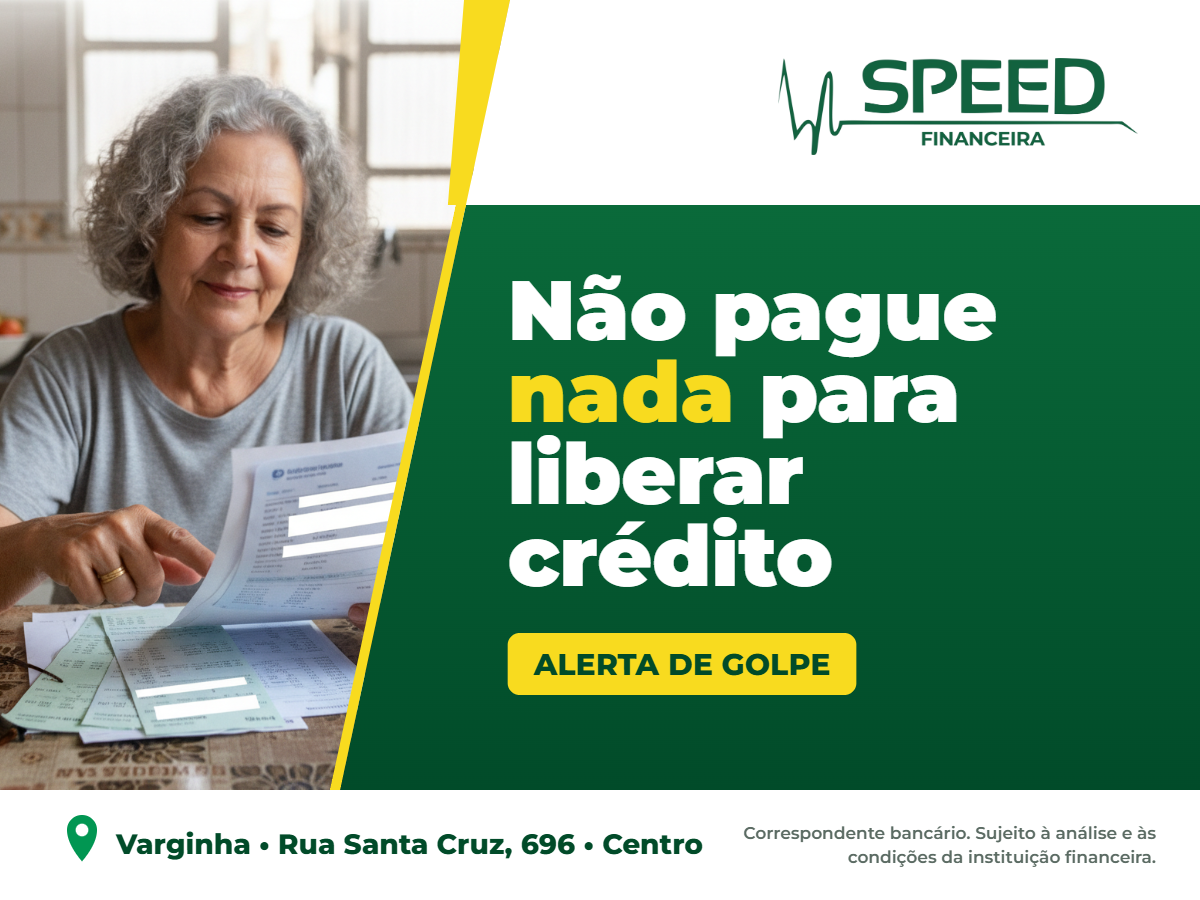
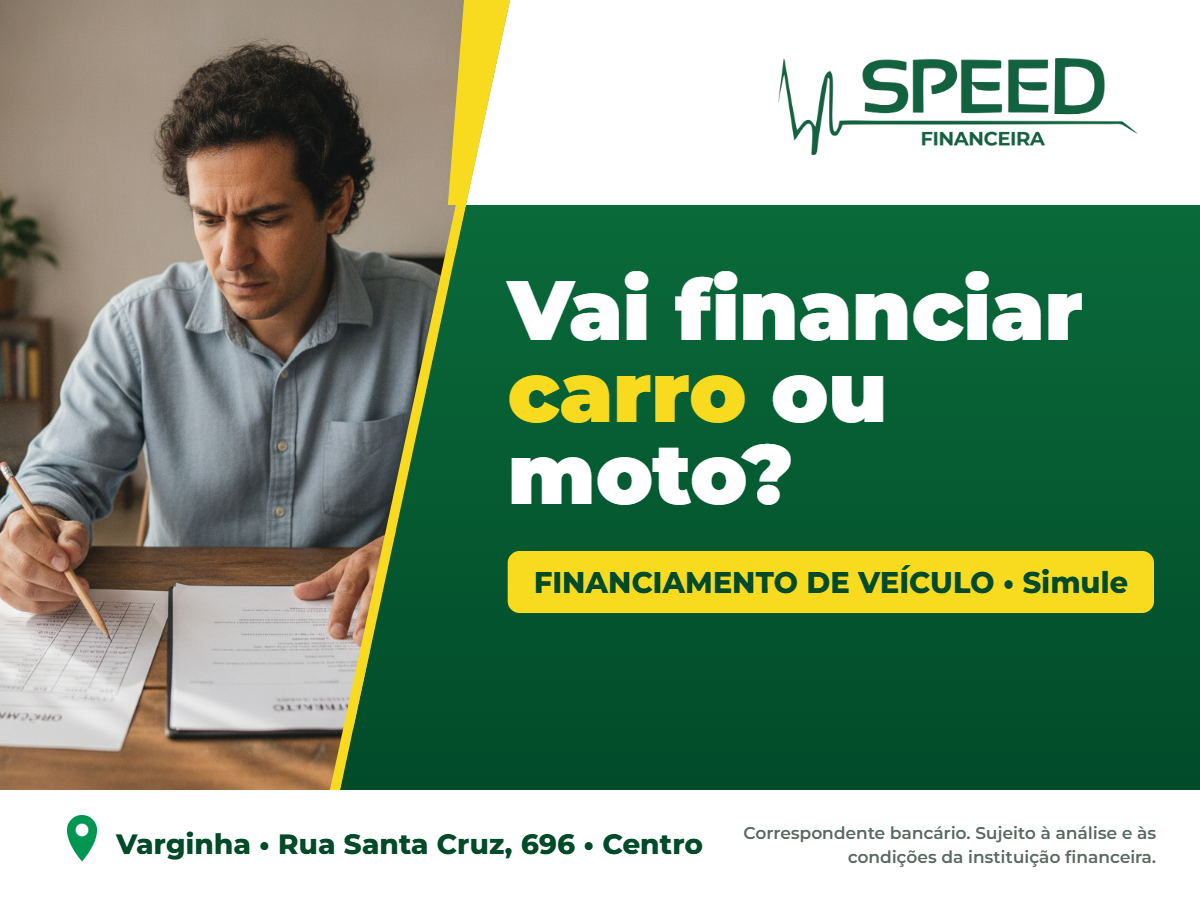
Marketing: posts da ficha pelas buscas reais e publicação pelo servidor
Calendário da ficha no Google com 3 posts por semana até 29/01/2027.
Os termos seguem as buscas reais da ficha (Desempenho, ago-out/2026):
"empréstimo consignado" (146 buscas) não estava em nenhum post.
- 02, 07, 14 e 16/12 trocados para empréstimo consignado, empréstimo CLT
  e empréstimo pessoal (textos e duas artes novas; os posts programados
  na ficha foram atualizados pela API).
- 14 posts novos (22/12, 29/12 e janeiro), marcados publicarPeloServidor.
- 06/11 já tinha sido trocado em 30/10 de alerta de golpe para
  financiamento de veículo; a arte e o texto entram neste commit.

A API do Google não programa post novo. O servidor publica no dia, a
partir das 9h (gmbPostsDue, createPost, postsDoDia), com a arte em
speedfinanceira.com.br/midia/posts/google-AAAA-MM-DD.png; dia que passou
fica de fora. A esteira do painel mostra publicado, erro ou não saiu.

diff --git a/server/public/marketing/js/data_gmb_posts.js b/server/public/marketing/js/data_gmb_posts.js
@@ -11,7 +11,7 @@
 window.SPEED_GMB_POSTS_ARTES = {
   '2026-11-03': ['Aposentado, *compare* antes de assinar', 'CONSIGNADO INSS • Vários bancos', 'casal'],
   '2026-11-04': ['Seu *FGTS* pode virar dinheiro agora', 'SAQUE-ANIVERSÁRIO • Simule', 'cozinha'],
-  '2026-11-06': ['Não pague *nada* para liberar crédito', 'ALERTA DE GOLPE', 'senhora'],
+  '2026-11-06': ['Vai financiar *carro* ou moto?', 'FINANCIAMENTO DE VEÍCULO • Simule', 'homem'],
   '2026-11-09': ['Carteira assinada tem *consignado*', 'CLT • Desconto em folha', 'homem'],
   '2026-11-11': ['Sua parcela pode *diminuir*', 'PORTABILIDADE • Traga o extrato', 'senhora'],
   '2026-11-13': ['O que trazer para *simular*', 'RG, CPF, comprovante e extrato', 'balcao'],
@@ -22,9 +22,9 @@ window.SPEED_GMB_POSTS_ARTES = {
   '2026-11-25': ['Olhe o *CET*, não só a parcela', 'CUSTO EFETIVO TOTAL', 'homem'],
   '2026-11-27': ['Black Friday sem cair no *rotativo*', 'Troque dívida cara por parcela fixa', 'cozinha'],
   '2026-11-30': ['Sua *margem* ainda está livre?', 'Extrato do Meu INSS na hora', 'senhora'],
-  '2026-12-02': ['FGTS parado? *Antecipe*', 'Simule sem compromisso', 'cozinha'],
+  '2026-12-02': ['Empréstimo *consignado* em Varginha', 'INSS • CLT • SERVIDOR', 'casal'],
   '2026-12-04': ['Obrigado pelas mais de *200* avaliações', 'Conte como foi no Google', 'balcao'],
-  '2026-12-07': ['Carro ou imóvel pelo *consórcio*', 'SEM JUROS • Taxa de administração', 'casal'],
+  '2026-12-07': ['Pouco tempo de *carteira*?', 'CONSIGNADO CLT • Compare os bancos', 'balcao'],
   '2026-12-09': ['Dívida cara? *Parcela* em folha', 'CONSIGNADO CLT', 'homem'],
   '2026-12-11': ['Nome *negativado*? Veja suas opções', 'CONSIGNADO E FGTS • Sujeito a análise', 'cozinha'],
   '2026-12-14': ['Seu consignado pode ficar mais *leve*', 'PORTABILIDADE', 'senhora'],
@@ -33,7 +33,22 @@ window.SPEED_GMB_POSTS_ARTES = {
   '2026-12-21': ['Consignado ou crédito *pessoal*?', 'Mostramos o que faz sentido', 'homem'],
   '2026-12-23': ['Obrigado pela *confiança* em 2026', 'Boas festas, Varginha!', 'casal'],
   '2026-12-28': ['Comece 2027 com as *dívidas* em ordem', 'Simulação sem custo', 'senhora'],
-  '2026-12-30': ['Crédito para começar *2027* com calma', 'CONSIGNADO INSS', 'casal']
+  '2026-12-30': ['Crédito para começar *2027* com calma', 'CONSIGNADO INSS', 'casal'],
+  // Posts que o servidor publica (05/11/2026). Entram no fim da lista para não mudar a variação das artes já feitas.
+  '2026-12-22': ['No Natal, confira o *extrato* dos seus pais', 'APOSENTADOS • Meu INSS', 'casal'],
+  '2026-12-29': ['Comece 2027 sem *rotativo*', 'CONSIGNADO CLT • Desconto em folha', 'homem'],
+  '2027-01-04': ['Ano novo, dívida *mais barata*', 'CONSIGNADO CLT', 'balcao'],
+  '2027-01-06': ['Benefício reajustado, *margem* nova?', 'CONSIGNADO INSS • Consulte', 'senhora'],
+  '2027-01-08': ['IPVA, IPTU e *material escolar*', 'Compare antes de contratar', 'cozinha'],
+  '2027-01-11': ['Pediram *Pix* para liberar crédito?', 'É GOLPE • Não pague', 'senhora'],
+  '2027-01-13': ['Quanto posso pegar no *consignado CLT*?', 'Depende da sua margem', 'homem'],
+  '2027-01-15': ['Vai *financiar* em 2027?', 'Compare o CET', 'balcao'],
+  '2027-01-18': ['Já pagou parte do *consignado*?', 'REFINANCIAMENTO • A gente faz a conta', 'casal'],
+  '2027-01-20': ['Foi atendido na Speed? *Avalie*', 'Sua opinião ajuda Varginha', 'balcao'],
+  '2027-01-22': ['O que trazer para o *consignado CLT*', 'Documento, CPF e holerite', 'homem'],
+  '2027-01-25': ['Aposentado: 3 *cuidados* antes de assinar', 'CONSIGNADO INSS', 'casal'],
+  '2027-01-27': ['Quem pode fazer *crédito consignado*', 'INSS • CLT • SERVIDOR', 'senhora'],
+  '2027-01-29': ['Simulação de *consignado* sem custo', 'Compare vários bancos', 'balcao']
 };
 
 window.SPEED_GMB_POSTS_PLANO = (function () {
@@ -52,6 +67,9 @@ window.SPEED_GMB_POSTS_PLANO = (function () {
     const layout = Math.floor(i / 2) % 2 ? 'b' : 'a';
     return a ? { titulo: a[0], selo: a[1], foto: a[2], variacao, layout, arquivo: `gmb-artes/post-${data}${variacao === 2 ? '-v2' : ''}.png` } : null;
   };
+  // Post que o servidor do Nexcafe publica sozinho no dia, às 9h (server/app.js, gmbPostsDue): a API do Google
+  // não programa post novo. A arte vai antes para speedfinanceira.com.br/midia/posts/google-AAAA-MM-DD.png.
+  const s = (...args) => ({ ...p(...args), programadoEm: '2026-11-05', publicarPeloServidor: true, fotoUrl: `https://speedfinanceira.com.br/midia/posts/google-${args[0]}.png` });
   const p = (data, tema, termo, texto, foto, rodape = true) =>
     ({ id: `post-${data}`, data, tema, termo, texto: rodape ? `${texto}\n\n${RODAPE}` : texto, foto, botao: 'Saiba mais', link: whatsapp(data), arte: arte(data), programadoEm: PROGRAMADO_EM });
 
@@ -63,9 +81,10 @@ window.SPEED_GMB_POSTS_PLANO = (function () {
     p('2026-11-04', 'Antecipação FGTS', 'empréstimo do fgts varginha',
       'Empréstimo do FGTS em Varginha: quem aderiu ao saque-aniversário pode antecipar parcelas e receber o valor de uma vez, sem parcela no salário. O desconto sai do próprio saldo do FGTS.\n\nO valor liberado depende do saldo e das regras em vigor. Na Speed Financeira, no Centro, a gente simula com você, mostra quanto entra na conta e explica a autorização que precisa ser feita no aplicativo do FGTS.',
       'Atendente mostrando a simulação na tela, sem dados do cliente.'),
-    p('2026-11-06', 'Segurança', 'empréstimo para negativado',
-      'Empréstimo para negativado "liberado na hora" que pede depósito antes é golpe. Em Varginha e região, desconfie de quem cobra taxa, Pix ou "seguro" para liberar o dinheiro: correspondente bancário sério não cobra nada antecipado.\n\nNa Speed Financeira o atendimento é presencial, na Rua Santa Cruz, 696, no Centro de Varginha, e o contrato é sempre do banco, em seu nome. Na dúvida, venha conferir pessoalmente antes de pagar qualquer coisa.',
-      'Fachada da loja com o número 696 visível.', false),
+    // 06/11 era alerta de golpe; trocado em 30/10 porque um alerta igual foi publicado na ficha nesse dia.
+    p('2026-11-06', 'Financiamento de veículo', 'financiamento de veículo varginha',
+      'Financiamento de veículo em Varginha: antes de fechar a compra do carro ou da moto, compare o custo efetivo total (CET) das propostas, e não só o valor da parcela. Uma entrada maior e um prazo menor costumam deixar o total pago bem mais baixo.\n\nNa Speed Financeira, no Centro, a gente simula com você e mostra a parcela, o CET e o total a pagar antes de qualquer decisão.',
+      'Fachada da loja; evite foto de carro de cliente.'),
 
     // Semana 2
     p('2026-11-09', 'Consignado CLT', 'empréstimo clt varginha',
@@ -104,17 +123,19 @@ window.SPEED_GMB_POSTS_PLANO = (function () {
     p('2026-11-30', 'Consignado INSS', 'empréstimo inss varginha',
       'Empréstimo INSS em Varginha: sabe quanto do seu benefício já está comprometido? O extrato de empréstimos do Meu INSS mostra os contratos ativos e a margem que ainda está livre.\n\nNa Speed Financeira, no Centro, a gente tira esse extrato com você, explica cada contrato e mostra se vale a pena um novo crédito, um refinanciamento ou a portabilidade.',
       'Tela do Meu INSS na loja, sem dados pessoais.'),
-    p('2026-12-02', 'Antecipação FGTS', 'saque-aniversário do fgts varginha',
-      'Saque-aniversário do FGTS em Varginha: se o seu FGTS está parado, dá para antecipar parcelas e usar o dinheiro agora, sem parcela no salário.\n\nA Speed Financeira, no Centro, consulta com você quanto pode ser antecipado e explica o passo a passo da autorização no aplicativo do FGTS.',
-      'Equipe no balcão.'),
+    // 02, 07, 14 e 16/12 trocados em 05/11/2026 pelas buscas reais da ficha (ago-out/2026): "empréstimo consignado"
+    // (146 buscas) não estava em nenhum post; FGTS, consórcio e "financeira" quase não aparecem nas buscas.
+    p('2026-12-02', 'Consignado', 'empréstimo consignado varginha',
+      'Empréstimo consignado em Varginha: a parcela é descontada direto do benefício do INSS ou do salário, por isso os juros costumam ser menores que os do crédito pessoal e do cartão. Podem fazer aposentados e pensionistas do INSS, servidores públicos e quem tem carteira assinada.\n\nNa Speed Financeira, no Centro, a gente consulta sua margem, compara as propostas de vários bancos e mostra a parcela e o custo total antes de você decidir.',
+      'Mesa de atendimento com a fachada ao fundo.'),
     p('2026-12-04', 'Avaliações', 'financeira em varginha',
       'Financeira em Varginha com mais de 200 avaliações no Google e nota 4,8: obrigado a cada cliente que contou como foi o atendimento na Speed Financeira.\n\nJá foi atendido por aqui? Sua avaliação ajuda outras pessoas da cidade a escolher com segurança onde fazer o empréstimo. Conte qual serviço você fez e como foi.',
       'Equipe reunida na frente da loja (com autorização).', false),
 
     // Semana 6
-    p('2026-12-07', 'Consórcio', 'consórcio varginha',
-      'Consórcio em Varginha: para comprar carro, moto ou imóvel sem pagar juros, o consórcio troca os juros por uma taxa de administração, e a carta de crédito sai por sorteio ou lance.\n\nNa Speed Financeira, no Centro, a gente explica como funciona, compara os planos disponíveis e mostra o valor da parcela e o custo total antes de você decidir.',
-      'Fachada da loja.'),
+    p('2026-12-07', 'Consignado CLT', 'empréstimo clt varginha',
+      'Empréstimo CLT em Varginha com pouco tempo de carteira assinada? Cada banco define quanto tempo de empresa exige para o consignado do trabalhador, e um pode aceitar quando outro recusa.\n\nPor isso vale comparar. Na Speed Financeira, no Centro, a gente consulta as ofertas dos bancos para você, mostra a parcela e o custo total e só segue se fizer sentido para o seu orçamento.',
+      'Equipe no balcão.'),
     p('2026-12-09', 'Consignado CLT', 'consignado clt varginha',
       'Consignado CLT em Varginha: quem tem carteira assinada pode trocar dívidas caras, como cartão e cheque especial, por um empréstimo com desconto em folha e juros menores. O valor e o prazo dependem do salário e das ofertas disponíveis.\n\nNa Speed Financeira, no Centro, a gente faz a conta com você antes de qualquer contratação.',
       'Atendente ao telefone no balcão.'),
@@ -123,11 +144,11 @@ window.SPEED_GMB_POSTS_PLANO = (function () {
       'Mesa de atendimento.'),
 
     // Semana 7
-    p('2026-12-14', 'Portabilidade', 'crédito consignado varginha',
-      'Crédito consignado mais leve em Varginha: se o seu empréstimo foi feito há algum tempo, os juros e as condições dos bancos mudaram, e outro banco pode oferecer uma parcela menor para o mesmo contrato.\n\nA Speed Financeira, no Centro, compara as opções de portabilidade e só recomenda a troca quando ela é melhor para você.',
+    p('2026-12-14', 'Portabilidade', 'empréstimo consignado varginha',
+      'Empréstimo consignado em Varginha com parcela mais leve: se o seu consignado foi feito há algum tempo, outro banco pode oferecer juros menores para o mesmo contrato. É a portabilidade, e em alguns casos a parcela diminui ou sobra um valor para você.\n\nA Speed Financeira, no Centro, compara as opções e só recomenda a troca quando ela é melhor para você.',
       'Mesa de atendimento.'),
-    p('2026-12-16', 'Educação financeira', 'financeira varginha',
-      'A segunda parcela do 13º deve ser paga até 20 de dezembro, e a Speed Financeira, em Varginha, recomenda separar uma parte para as contas de janeiro: IPVA, IPTU, matrícula e material escolar.\n\nPlanejar agora evita entrar no cheque especial no começo do ano. Precisa organizar as dívidas? Venha ao Centro e a gente ajuda você a fazer as contas.',
+    p('2026-12-16', 'Educação financeira', 'empréstimo pessoal varginha',
+      'Empréstimo pessoal em Varginha no começo do ano? Antes, use a segunda parcela do 13º, que deve ser paga até 20 de dezembro: separe uma parte para as contas de janeiro, como IPVA, IPTU, matrícula e material escolar.\n\nSe mesmo assim faltar, compare antes de contratar: o consignado costuma ter juros menores que o pessoal. Na Speed Financeira, no Centro, a gente faz as contas com você.',
       'Fachada da loja.'),
     p('2026-12-18', 'Segurança', 'empréstimo varginha',
       'Fim de ano é época de golpe do falso empréstimo em Varginha e em todo o país: nunca faça depósito ou Pix para liberar crédito e não passe senha nem código recebido por SMS.\n\nA Speed Financeira não cobra nenhum valor antecipado e atende presencialmente na Rua Santa Cruz, 696, no Centro. Antes das festas, confira nesta ficha o horário de Natal e Ano Novo.',
@@ -137,6 +158,9 @@ window.SPEED_GMB_POSTS_PLANO = (function () {
     p('2026-12-21', 'Crédito pessoal', 'empréstimo pessoal varginha',
       'Empréstimo pessoal ou consignado em Varginha? Para aposentados, pensionistas, servidores e quem tem carteira assinada, o consignado costuma ter juros bem menores, porque a parcela é descontada direto no benefício ou no salário.\n\nO empréstimo pessoal é uma opção para quem não tem acesso ao consignado. Na Speed Financeira, no Centro, a gente mostra qual faz mais sentido para você.',
       'Atendente no balcão.'),
+    s('2026-12-22', 'Consignado INSS', 'empréstimo consignado varginha',
+      'Empréstimo consignado em Varginha: vai encontrar seus pais aposentados no Natal? Aproveite para conferir com eles o extrato de empréstimos no Meu INSS. Ele mostra os contratos ativos e quanto do benefício já está comprometido, e ajuda a perceber um desconto que ninguém pediu.\n\nFicou alguma dúvida? Traga o extrato à Speed Financeira, no Centro, e a gente explica cada contrato com calma.',
+      'Casal de aposentados em casa.'),
     p('2026-12-23', 'Avaliações', 'financeira varginha',
       'A Speed Financeira agradece a confiança de cada cliente de Varginha e região em 2026. Desejamos um Natal com saúde e um ano novo com as contas em dia.\n\nConfira nesta ficha o horário de atendimento de Natal e Ano Novo.',
       'Equipe reunida na loja (com autorização).', false),
@@ -145,8 +169,50 @@ window.SPEED_GMB_POSTS_PLANO = (function () {
     p('2026-12-28', 'Educação financeira', 'empréstimo varginha',
       'Empréstimo para organizar as dívidas em Varginha: quer começar 2027 com as contas em ordem? Liste tudo o que deve, com a parcela e os juros de cada uma, e comece pela mais cara. Trocar várias dívidas caras por um só crédito, com juros menores, pode aliviar o orçamento.\n\nTraga sua lista à Speed Financeira, no Centro. A simulação não tem custo nem compromisso.',
       'Mesa de atendimento com caneta e papel.'),
+    s('2026-12-29', 'Consignado CLT', 'empréstimo clt varginha',
+      'Empréstimo CLT em Varginha para começar 2027 sem rotativo: quem tem carteira assinada pode trocar a dívida do cartão e do cheque especial por um consignado com parcela descontada em folha, que costuma ter juros bem menores.\n\nNa Speed Financeira, no Centro, a gente compara as ofertas dos bancos, mostra a parcela e o custo total e só segue se a troca valer a pena para você.',
+      'Atendente no balcão.'),
     p('2026-12-30', 'Consignado INSS', 'empréstimo para aposentado varginha',
       'Empréstimo para aposentado em Varginha: em janeiro a Speed Financeira segue atendendo no Centro para consignado, refinanciamento e portabilidade de aposentados e pensionistas do INSS.\n\nSe você planeja um crédito para o começo do ano, venha simular com calma e compare o custo total antes de decidir. Confira nesta ficha o horário de atendimento do Ano Novo.',
-      'Fachada da loja.')
+      'Fachada da loja.'),
+
+    // Janeiro de 2027: publicados pelo servidor. Termos pelas buscas reais da ficha (ago-out/2026):
+    // empréstimo consignado e empréstimo CLT primeiro; 01/01 é feriado.
+    s('2027-01-04', 'Consignado CLT', 'empréstimo clt varginha',
+      'Empréstimo CLT em Varginha: ano novo pode ser a hora de trocar a dívida mais cara por uma mais barata. Com carteira assinada, o consignado do trabalhador tem a parcela descontada em folha e costuma ter juros menores que o cartão e o crédito pessoal.\n\nNa Speed Financeira, no Centro, a gente consulta as ofertas dos bancos para você e mostra o custo total antes de qualquer contratação.',
+      'Balcão de atendimento.'),
+    s('2027-01-06', 'Consignado INSS', 'empréstimo consignado varginha',
+      'Empréstimo consignado em Varginha para aposentados e pensionistas: em janeiro os benefícios do INSS costumam ser reajustados, e a margem consignável acompanha o valor do benefício. Pode ser que você tenha um valor livre que não tinha antes.\n\nNa Speed Financeira, no Centro, a gente consulta sua margem com você, compara as propostas dos bancos e mostra a parcela e o custo total.',
+      'Aposentada em atendimento.'),
+    s('2027-01-08', 'Crédito pessoal', 'empréstimo pessoal varginha',
+      'Empréstimo pessoal em Varginha para IPVA, IPTU e material escolar? Antes de contratar, veja se dá para pagar à vista com desconto ou parcelar direto, e compare: quem é aposentado, servidor ou tem carteira assinada costuma conseguir juros menores no consignado.\n\nNa Speed Financeira, no Centro, a gente mostra as opções lado a lado, com a parcela e o custo total.',
+      'Mesa com material escolar.'),
+    s('2027-01-11', 'Segurança', 'empréstimo varginha',
+      'Empréstimo em Varginha: se pediram Pix, depósito ou boleto para liberar o seu crédito, é golpe. Banco e correspondente bancário não cobram nada antecipado para liberar empréstimo, e ninguém precisa da sua senha ou do código que chegou por SMS.\n\nNa dúvida, não pague e não envie documentos. Venha à Speed Financeira, na Rua Santa Cruz, 696, no Centro, e a gente confere com você.',
+      'Fachada da loja.', false),
+    s('2027-01-13', 'Consignado CLT', 'consignado clt varginha',
+      'Consignado CLT em Varginha: quanto posso pegar? Depende da sua margem, que é a parte do salário que pode ser comprometida com a parcela, e das ofertas que os bancos fazem para a sua empresa e o seu tempo de carteira.\n\nNa Speed Financeira, no Centro, a gente consulta isso com você, compara os bancos e mostra a parcela, o prazo e o custo total antes de qualquer decisão.',
+      'Atendente com o cliente no balcão.'),
+    s('2027-01-15', 'Financiamento', 'financiamento varginha',
+      'Financiamento em Varginha: vai trocar de carro ou moto em 2027? Antes de fechar, compare o custo efetivo total (CET) das propostas, e não só a parcela. Uma entrada maior e um prazo menor costumam reduzir bastante o total pago.\n\nNa Speed Financeira, no Centro, a gente simula financiamento e empréstimo com garantia de veículo e mostra o que sai mais barato para você.',
+      'Fachada da loja; evite foto de carro de cliente.'),
+    s('2027-01-18', 'Refinanciamento', 'empréstimo consignado varginha',
+      'Empréstimo consignado em Varginha: já pagou parte das parcelas? Dependendo do contrato, o refinanciamento pode liberar um valor novo, e a portabilidade pode levar o contrato para um banco com juros menores. O prazo e o custo mudam, então a conta precisa ser feita antes.\n\nTraga o seu contrato à Speed Financeira, no Centro. A gente compara as opções e só recomenda o que vale a pena.',
+      'Casal com o contrato na mesa.'),
+    s('2027-01-20', 'Avaliações', 'empréstimo varginha',
+      'Empréstimo em Varginha com atendimento de verdade: se você já fez um consignado, uma portabilidade ou uma simulação na Speed Financeira, conte aqui no Google como foi. Sua avaliação ajuda outras pessoas da cidade a escolher com segurança onde contratar crédito.\n\nVale contar qual serviço você fez e como foi o atendimento no Centro.',
+      'Equipe no balcão (com autorização).', false),
+    s('2027-01-22', 'Consignado CLT', 'empréstimo clt varginha',
+      'Empréstimo CLT em Varginha: o que trazer para simular o consignado do trabalhador na Speed Financeira:\n\n- documento com foto (RG ou CNH);\n- CPF;\n- último holerite;\n- comprovante de endereço.\n\nCom isso a gente consulta as ofertas dos bancos para você e mostra a parcela e o custo total, sem compromisso. Atendimento na Rua Santa Cruz, 696, Centro.',
+      'Documentos sobre o balcão, sem dados legíveis.', false),
+    s('2027-01-25', 'Consignado INSS', 'empréstimo para aposentado varginha',
+      'Empréstimo para aposentado em Varginha: três cuidados antes de assinar. Primeiro, saiba quanto de margem você tem. Segundo, compare o custo efetivo total (CET), não só a parcela. Terceiro, desconfie de quem pede dinheiro antes de liberar o crédito: isso é golpe.\n\nNa Speed Financeira, no Centro, a gente faz essa conferência com você antes de qualquer contrato.',
+      'Casal de aposentados em atendimento.'),
+    s('2027-01-27', 'Consignado', 'crédito consignado varginha',
+      'Crédito consignado em Varginha: quem pode fazer? Aposentados e pensionistas do INSS, servidores públicos e quem tem carteira assinada. A parcela sai direto do benefício ou do salário, por isso os juros costumam ser menores.\n\nCada caso tem a sua margem e as suas regras. Na Speed Financeira, no Centro, a gente confere o seu e compara as propostas de vários bancos.',
+      'Atendente explicando uma simulação.'),
+    s('2027-01-29', 'Consignado', 'empréstimo consignado varginha',
+      'Empréstimo consignado em Varginha com simulação sem custo: na Speed Financeira, no Centro, você compara as propostas de vários bancos num só atendimento e sai sabendo a parcela, o prazo e o custo total antes de assinar.\n\nTraga um documento com foto. Aposentado ou pensionista: se não tiver o extrato do benefício, a gente ajuda a tirar durante o atendimento.',
+      'Mesa de atendimento com a fachada ao fundo.')
   ];
 })();

diff --git a/server/app.js b/server/app.js
@@ -133,7 +133,7 @@ function verifyPassword(password, user) {
   return actual.length === expected.length && crypto.timingSafeEqual(actual, expected);
 }
 function defaults() {
-  return { version: 2, createdAt: now(), installKey: crypto.randomBytes(12).toString("base64url"), printerShares: [], settings: { defaultMinutes: 60, autoRestoreOnTimeEnd: true, rateCentsHour: 500, printBWCents: 100, printColorCents: 200, printBlackPrinter: "", printColorPrinter: "", timeTable: [{ minutes: 15, cents: 300 }, { minutes: 30, cents: 370 }, { minutes: 60, cents: 500 }], printTiers: DEFAULT_PRINT_TIERS.map(row => ({ ...row })), printTiersEnabled: false, comboHintsEnabled: true }, machines: {}, events: [], users: [], loginSessions: [], clients: [], products: [], charges: [], payments: [], sessionHistory: [], stockMovements: [], cashShifts: [], cashAdjustments: [], expenses: [], incomes: [], printJobs: [], waitList: [], marketing: { store: {}, updatedAt: null }, geogrid: { key: "", placeId: "", placeName: "", placeAddress: "", runs: [], lastError: null }, gmbApi: emptyGmbApi(), vault: { salt: null, check: null, items: [], updatedAt: null } };
+  return { version: 2, createdAt: now(), installKey: crypto.randomBytes(12).toString("base64url"), printerShares: [], settings: { defaultMinutes: 60, autoRestoreOnTimeEnd: true, rateCentsHour: 500, printBWCents: 100, printColorCents: 200, printBlackPrinter: "", printColorPrinter: "", timeTable: [{ minutes: 15, cents: 300 }, { minutes: 30, cents: 370 }, { minutes: 60, cents: 500 }], printTiers: DEFAULT_PRINT_TIERS.map(row => ({ ...row })), printTiersEnabled: false, comboHintsEnabled: true }, machines: {}, events: [], users: [], loginSessions: [], clients: [], products: [], charges: [], payments: [], sessionHistory: [], stockMovements: [], cashShifts: [], cashAdjustments: [], expenses: [], incomes: [], printJobs: [], waitList: [], marketing: { store: {}, updatedAt: null }, geogrid: { key: "", placeId: "", placeName: "", placeAddress: "", runs: [], lastError: null }, gmbApi: emptyGmbApi(), fichaSaude: { health: null, history: [], snapshot: null, changes: [], googleDiff: [], nap: null, lastError: null }, gmbPosts: { publicados: {}, erros: {} }, vault: { salt: null, check: null, items: [], updatedAt: null } };
 }
 function normalize(db) {
   const empty = defaults();
@@ -165,6 +165,7 @@ function normalize(db) {
   db.geogrid.runs ||= [];
   db.gmbApi ||= emptyGmbApi();
   db.fichaSaude ||= { health: null, history: [], snapshot: null, changes: [], googleDiff: [], nap: null, lastError: null };
+  db.gmbPosts ||= { publicados: {}, erros: {} };
   db.vault ||= { salt: null, check: null, items: [], updatedAt: null };
   db.vault.banks ||= [];
   // Despesa do sistema anterior veio com categoria generica: aluguel volta para Aluguel.
@@ -2974,7 +2975,8 @@ function createApp({ dataDir = DEFAULT_DATA_DIR, port = 4780, printRunner = defa
     return {
       clientConfigured: !!(g.clientId && g.clientSecret), clientIdHint: g.clientId ? `${g.clientId.slice(0, 12)}...` : "",
       connected: !!(g.refreshToken && g.locationName), title: g.title, address: g.address, connectedAt: g.connectedAt,
-      redirectUri: gmbRedirect(), scope: gmbApi.SCOPE, lastError: g.lastError
+      redirectUri: gmbRedirect(), scope: gmbApi.SCOPE, lastError: g.lastError,
+      postsServidor: { publicados: db.gmbPosts.publicados, erros: db.gmbPosts.erros }
     };
   }
   async function gmbToken() {
@@ -3147,6 +3149,38 @@ function createApp({ dataDir = DEFAULT_DATA_DIR, port = 4780, printRunner = defa
       .then(() => (!f.nap || Date.now() - Date.parse(f.nap.at) >= 7 * 86400_000 ? runNap("automatica") : null))
       .catch(cause => console.error(`Saude da ficha automatica falhou: ${cause.message}`));
   }
+  // Posts da ficha que o servidor publica no dia, a partir das 9h (calendario em public/marketing/js/data_gmb_posts.js).
+  const postsState = { running: null, lastCheck: 0 };
+  function gmbPostsPlano() {
+    const sandbox = { window: {} };
+    vm.runInNewContext(fs.readFileSync(path.join(marketingDir, "js", "data_gmb_posts.js"), "utf8"), sandbox, { timeout: 1000 });
+    return sandbox.window.SPEED_GMB_POSTS_PLANO || [];
+  }
+  function gmbPostsDue(agora = new Date()) {
+    if (!db.gmbApi.refreshToken || !db.gmbApi.locationName || postsState.running || Date.now() - postsState.lastCheck < 600_000) return null;
+    postsState.lastCheck = Date.now();
+    let pendentes;
+    try { pendentes = gmbApi.postsDoDia(gmbPostsPlano(), db.gmbPosts.publicados, agora); }
+    catch (cause) { console.error(`Calendario de posts ilegivel: ${cause.message}`); return null; }
+    // Erro recente (API fora, arte sem link): tenta de novo depois de 30 min.
+    pendentes = pendentes.filter(post => !db.gmbPosts.erros[post.id] || Date.now() - Date.parse(db.gmbPosts.erros[post.id].at) >= 1800_000);
+    if (!pendentes.length) return null;
+    postsState.running = (async () => {
+      for (const post of pendentes) {
+        try {
+          const criado = await gmbApi.createPost({ accessToken: await gmbToken(), accountName: db.gmbApi.accountName, locationName: db.gmbApi.locationName, summary: post.texto, url: post.link, photoUrl: post.fotoUrl, fetchImpl: gmbFetch });
+          db.gmbPosts.publicados[post.id] = { at: now(), name: criado.name, state: criado.state };
+          delete db.gmbPosts.erros[post.id];
+          event("sistema", "Post publicado na ficha do Google", `${post.data}: ${post.termo}`);
+        } catch (cause) {
+          db.gmbPosts.erros[post.id] = { at: now(), message: label(cause.message, 300) };
+          event("sistema", "Post da ficha não publicado", `${post.data}: ${label(cause.message, 160)}`);
+        }
+        save();
+      }
+    })().finally(() => { postsState.running = null; });
+    return postsState.running;
+  }
   function fichaView() {
     const f = db.fichaSaude, run = db.geogrid.runs.at(-1), actions = f.health?.actions;
     // Potencial por termo: ultima medicao do GeoGrid com as acoes dos ultimos 30 dias da ficha.
@@ -3249,6 +3283,7 @@ function createApp({ dataDir = DEFAULT_DATA_DIR, port = 4780, printRunner = defa
     for (const [ip, attempt] of enrollAttempts) if (attempt.until < nowMs) enrollAttempts.delete(ip);
     geogridDue();
     fichaDue();
+    gmbPostsDue();
   }, 15_000);
   server.on("close", () => clearInterval(sweeper));
   // O .NET das estacoes reaproveita conexao ociosa por ate 100 s; o padrao do Node fecha em 5 s.

diff --git a/tests/gmb-api.test.js b/tests/gmb-api.test.js
@@ -117,3 +117,42 @@ test("gmb-api: salva o cliente sem devolver a chave, conecta pela volta do OAuth
     fs.rmSync(dataDir, { recursive: true, force: true });
   }
 });
+
+test("gmb-api: servidor publica so os posts do dia, a partir das 9h, sem repetir", async () => {
+  const { postsDoDia, createPost } = require("../server/gmb-api");
+  const plano = [
+    { id: "post-2027-01-04", data: "2027-01-04", publicarPeloServidor: true, fotoUrl: "https://speedfinanceira.com.br/midia/posts/google-2027-01-04.png", texto: "Empréstimo CLT em Varginha", link: "https://wa.me/553530675017" },
+    { id: "post-2027-01-06", data: "2027-01-06", publicarPeloServidor: true, fotoUrl: "https://x/y.png" },
+    { id: "post-2026-12-28", data: "2027-01-04", programadoEm: "2026-10-30" }
+  ];
+  assert.deepEqual(postsDoDia(plano, {}, new Date(2027, 0, 4, 8, 59)), [], "antes das 9h nao publica");
+  assert.deepEqual(postsDoDia(plano, {}, new Date(2027, 0, 4, 9, 0)).map(p => p.id), ["post-2027-01-04"], "so o do dia e marcado para o servidor");
+  assert.deepEqual(postsDoDia(plano, { "post-2027-01-04": { at: "x" } }, new Date(2027, 0, 4, 15)), [], "nao repete");
+  assert.deepEqual(postsDoDia(plano, {}, new Date(2027, 0, 5, 10)), [], "dia que passou fica de fora");
+
+  const pedidos = [];
+  const fake = async (url, init) => { pedidos.push({ url, init }); return { ok: true, status: 200, json: async () => ({ name: "accounts/1/locations/2/localPosts/3", state: "LIVE" }) }; };
+  const criado = await createPost({ accessToken: "t", accountName: "accounts/1", locationName: "locations/2", summary: plano[0].texto, url: plano[0].link, photoUrl: plano[0].fotoUrl, fetchImpl: fake });
+  assert.equal(criado.state, "LIVE");
+  assert.equal(pedidos[0].url, "https://mybusiness.googleapis.com/v4/accounts/1/locations/2/localPosts");
+  const body = JSON.parse(pedidos[0].init.body);
+  assert.deepEqual(body.media, [{ mediaFormat: "PHOTO", sourceUrl: plano[0].fotoUrl }]);
+  assert.deepEqual(body.callToAction, { actionType: "LEARN_MORE", url: "https://wa.me/553530675017" });
+  assert.equal(pedidos[0].init.headers.authorization, "Bearer t");
+});
+
+test("gmb-api: calendario real tem texto, arte publica e botao em todo post do servidor", () => {
+  global.window = {};
+  require("../server/public/marketing/js/data_gmb_posts.js");
+  const plano = global.window.SPEED_GMB_POSTS_PLANO;
+  const servidor = plano.filter(p => p.publicarPeloServidor);
+  assert.ok(servidor.length >= 14);
+  for (const p of servidor) {
+    assert.match(p.fotoUrl, /^https:\/\/speedfinanceira\.com\.br\/midia\/posts\/google-\d{4}-\d\d-\d\d\.png$/, p.id);
+    assert.match(p.link, /^https:\/\/wa\.me\/553530675017\?text=/, p.id);
+    assert.ok(p.texto.length > 200 && p.texto.length <= 1500, p.id);
+    assert.doesNotMatch(p.texto, /\(?35\)?\s?\d{4}-?\d{4}/, `${p.id}: telefone no texto o Google recusa`);
+  }
+  assert.equal(new Set(plano.map(p => p.data)).size, plano.length, "uma data por post");
+  delete global.window;
+});

diff --git a/server/gmb-api.js b/server/gmb-api.js
@@ -132,4 +132,18 @@ async function readFicha({ accessToken, accountName, locationName, fetchImpl = f
   return { location, updated, attributes, media, posts, reviews, voice, links, actions, keywords };
 }
 
-module.exports = { authUrl, newState, exchangeCode, refreshAccess, findLocation, listPosts, readFicha, SCOPE };
+// ---- Posts que o servidor publica (calendario do painel, publicarPeloServidor) ----
+// A API v4 nao programa post: o servidor cria no dia, a partir da hora marcada. Dia que passou fica de fora.
+function postsDoDia(plano, publicados, agora = new Date(), hora = 9) {
+  const hoje = `${agora.getFullYear()}-${String(agora.getMonth() + 1).padStart(2, "0")}-${String(agora.getDate()).padStart(2, "0")}`;
+  if (agora.getHours() < hora) return [];
+  return plano.filter(post => post.publicarPeloServidor && post.data === hoje && post.fotoUrl && !publicados[post.id]);
+}
+
+async function createPost({ accessToken, accountName, locationName, summary, url, photoUrl, fetchImpl = fetch }) {
+  const body = { languageCode: "pt", topicType: "STANDARD", summary, callToAction: { actionType: "LEARN_MORE", url }, media: [{ mediaFormat: "PHOTO", sourceUrl: photoUrl }] };
+  const data = await call(fetchImpl, `${V4_URL}${accountName}/${locationName}/localPosts`, { method: "POST", headers: { authorization: `Bearer ${accessToken}`, "content-type": "application/json" }, body: JSON.stringify(body) });
+  return { name: data.name || "", state: data.state || "" };
+}
+
+module.exports = { authUrl, newState, exchangeCode, refreshAccess, findLocation, listPosts, readFicha, postsDoDia, createPost, SCOPE };

diff --git a/server/public/marketing/js/gmb_api.js b/server/public/marketing/js/gmb_api.js
@@ -80,6 +80,9 @@ async function carregarGmbApi() {
   try {
     GmbApiState.dados = (await geogridApi('/api/marketing/gmb-api')).gmb;
     renderGmbApi();
+    // A esteira de posts mostra se o servidor publicou ou falhou: redesenha com o resultado.
+    if (typeof renderGmbPostsPlano === 'function') renderGmbPostsPlano();
+    if (typeof renderGmbCicloResumo === 'function') renderGmbCicloResumo();
   } catch {
     gmbApiStatus('Indisponível', 'bg-gray-100 text-gray-700');
     conteudo.innerHTML = '<p class="results-empty">A conexão com a ficha funciona com o painel aberto pelo Nexcafe (Speed Marketing), logado como administrador.</p>';
